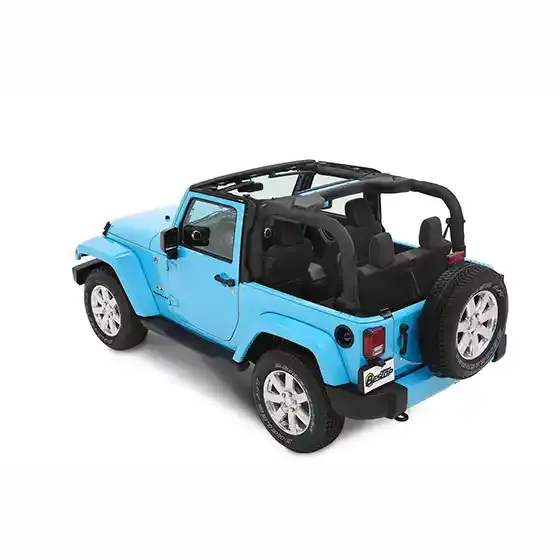
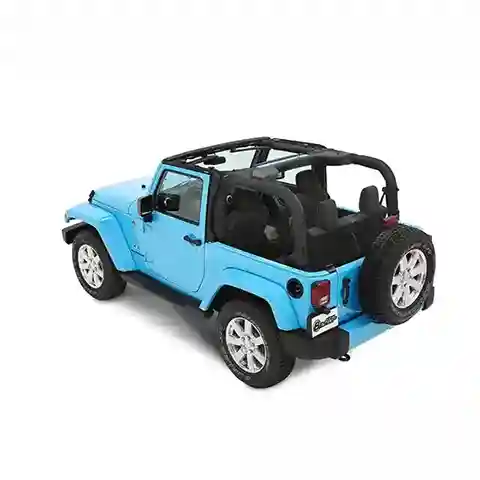
Updated responsive images and added READme file

diff --git a/scoots/rentals.html b/scoots/rentals.html
@@ -32,6 +32,7 @@
     <main>
         <div class="hero-text-container subpage-header">
             <picture class="hero-image">
+                <source srcset="images/rentals-hero-img-small.webp" media="(max-width:1110px)">
                 <img src="images/rentals-hero-img.webp" alt="ATV riding through forest.">
             </picture>
         </div>
@@ -48,19 +49,31 @@
 
             <div class="vehicle-display">
                 <div class="vehicle-card">
-                    <img src="images/honda-metropolitan.webp" alt="Honda Metropolitan motor scooter">
+                    <picture>
+                        <source srcset="images/honda-metropolitan-small.webp" media="(max-width:1110px)">
+                        <img src="images/honda-metropolitan.webp" alt="Honda Metropolitan motor scooter" loading="lazy">
+                    </picture>
+                    
                     <p class="bold">Honda Metropolitan 49cc</p>
                     <p><span class="bold">Max Persons:</span> 1 person</p>
                     <a href="reservations.html" class="button half-width-button">Rent Metropolitan</a>
                 </div>
                 <div class="vehicle-card">
-                    <img src="images/honda-dio.webp" alt="Honda Dio motor scooter">
+                    <picture>
+                        <source srcset="images/honda-dio-small.webp" media="(max-width:1110px)">
+                        <img src="images/honda-dio.webp" alt="Honda Dio motor scooter" loading="lazy">
+                    </picture>
+                    
                     <p class="bold">Honda Dio 110cc</p>
                     <p><span class="bold">Max Persons:</span> 2 person</p>
                     <a href="reservations.html" class="button half-width-button">Rent Dio</a>
                 </div>
                 <div class="vehicle-card">
-                    <img src="images/honda-pcx-light.webp" alt="Honda PCX motor scooter">
+                    <picture>
+                        <source srcset="images/honda-pcx-light-small.webp" media="(max-width:1110px)">
+                        <img src="images/honda-pcx-light.webp" alt="Honda PCX motor scooter" loading="lazy">
+                    </picture>
+        
                     <p class="bold">Honda PCX150 149cc</p>
                     <p><span class="bold">Max Persons:</span> 2 person</p>
                     <a href="reservations.html" class="button half-width-button">Rent PCX150</a>
@@ -76,7 +89,11 @@
             <p><span class="bold">Ideal For:</span> Adventurous individuals and groups wanting to explore off-the-beaten-path trails and rugged terrains.</p>
 
             <div class="vehicle-card">
-                <img src="images/honda-pioneer.webp" alt="Honda Pioneer 1000">
+                <picture>
+                    <source srcset="images/honda-pioneer-small.webp" media="(max-width:1110px)">
+                    <img src="images/honda-pioneer.webp" alt="Honda Pioneer 1000" loading="lazy">
+                </picture>
+                
                 <p class="bold">Honda Pioneer 1000</p>
                 <p><span class="bold">Max Persons:</span> 4 person</p>
                 <a href="reservations.html" class="button half-width-button">Rent Pioneer</a>
@@ -92,14 +109,22 @@
 
             <div class="vehicle-display">
                 <div class="vehicle-card">
-                    <img src="images/4door-jeep.webp" alt="4 Door Jeep">
+                    <picture>
+                        <source srcset="images/4door-jeep-small.webp" media="(max-width:1110px)">
+                        <img src="images/4door-jeep.webp" alt="4 Door Jeep" loading="lazy">
+                    </picture>
+                    
                     <p class="bold">Jeep Wrangler</p>
                     <p>4 Door, Manual, A/C</p>
                     <p><span class="bold">Max Persons:</span> 4 person</p>
                     <a href="reservations.html" class="button half-width-button">Rent 4 Door Jeep</a>
                 </div>
                 <div class="vehicle-card">
-                    <img src="images/2door-jeep.webp" alt="2 Door Jeep Wrangler">
+                    <picture>
+                        <source srcset="images/2door-jeep-small.webp" media="(max-width:1110px)">
+                        <img src="images/2door-jeep.webp" alt="2 Door Jeep Wrangler" loading="lazy">
+                    </picture>
+                    
                     <p class="bold">Jeep Wrangler</p>
                     <p>2 Door, Manual, Open Air</p>
                     <p><span class="bold">Max Persons:</span> 4 person</p>

diff --git a/scoots/index.html b/scoots/index.html
@@ -36,7 +36,8 @@
         </div>
         <div class="hero-text-container">
             <picture class="hero-image">
-                <img src="images/hero-image-large.webp" alt="Woman next to scooter holding helmet.">
+                <source srcset="images/hero-image-small.webp" media="(max-width: 1110px)">
+                <img src="images/hero-image-large.webp" alt="Woman next to scooter holding helmet." loading="lazy">
             </picture>
             <p id="scoots-message">Explore the island the Scoots way.</p>
         </div>
@@ -48,13 +49,15 @@
         </section>
         <div id="playa-location">
             <picture>
-                <img src="images/scoots-location-1-logo.webp" alt="Scoots Playa Del Carmen-Cozumel store location.">
+                <source srcset="images/scoots-location-1-logo-small.webp" media="(max-width:1110px)">
+                <img src="images/scoots-location-1-logo.webp" alt="Scoots Playa Del Carmen-Cozumel store location." loading="lazy">
             </picture>
             <p class="img-caption">Playa del Carmen-Cozumel</p>
         </div>
         <div id="puerta-maya-location">
             <picture>
-                <img src="images/scoots-location-2-update.webp" alt="Scoots Puerta Maya store location.">
+                <source srcset="images/scoots-location-2-update-small.webp" media="(max-width: 1110px)">
+                <img src="images/scoots-location-2-update.webp" alt="Scoots Puerta Maya store location." loading="lazy">
             </picture>
             <p class="img-caption">Terminal Puerta Maya</p>
         </div>
@@ -66,19 +69,22 @@
         <div id="home-rental-images">
             <div>
                 <picture>
-                    <img src="images/honda-metropolitan.webp" alt="Honda Metropolitan Scooter">
+                    <source srcset="images/honda-metropolitan-small.webp" media="(max-width:1110px)">
+                    <img src="images/honda-metropolitan.webp" alt="Honda Metropolitan Scooter" loading="lazy">
                 </picture>
                 <p class="img-caption">Honda Motor Scooters</p>
             </div>
             <div>
                 <picture>
-                    <img src="images/honda-pioneer.webp" alt="Honda Pioneer ATV">
+                    <source srcset="images/honda-pioneer-small.webp" media="(max-width:1110px)">
+                    <img src="images/honda-pioneer.webp" alt="Honda Pioneer ATV" loading="lazy">
                 </picture>
                 <p class="img-caption">Honda Side By Sides</p>
             </div>
             <div>
                 <picture>
-                    <img src="images/4door-jeep.webp" alt="4 Door Jeep Wrangler">
+                    <source srcset="images/4door-jeep-small.webp" media="(max-width:1110px)">
+                    <img src="images/4door-jeep.webp" alt="4 Door Jeep Wrangler" loading="lazy">
                 </picture>
                 <p class="img-caption">Jeep Wranglers</p>
             </div>

diff --git a/scoots/reservations.html b/scoots/reservations.html
@@ -32,7 +32,8 @@
     <main>
         <div class="hero-text-container subpage-header">
             <picture class="hero-image">
-                <img src="images/reservation.webp" alt="Men in jeep by beach.">
+                <source srcset="images/reservation-small.webp" media="(max-width:1110px)">
+                <img src="images/reservation.webp" alt="Men in jeep by beach." loading="lazy">
             </picture>
         </div>
         <h1 class="grid-ten">Reservations</h1>

diff --git a/scoots/styles/mobile.css b/scoots/styles/mobile.css
@@ -112,5 +112,19 @@
 
     /*****Contact Us*****/
 
+    /****Buttons*******/
+    .half-width-button {
+        width: 50%;
+    }
+    .large-button {
+        width: 50%;
+    }
+    
+    .medium-button {
+        width: 50%;
+    }
 
+    #contact-form input[type="submit"] {
+        width: 60%!important;
+    }
 }

diff --git a/scoots/styles/medium.css b/scoots/styles/medium.css
@@ -48,4 +48,16 @@
     #contact-form input {
         width: 80%;
     }
+
+    /*****Buttons****/
+    .half-width-button {
+        width: 50%;
+    }
+    .large-button {
+        width: 30%;
+    }
+    
+    .medium-button {
+        width: 30%;
+    }
 }

diff --git a/scoots/README.md b/scoots/README.md
@@ -1,0 +1,15 @@
+Randi Umphrey WDD230 Final Project:
+
+The purpose of this project was to demonstrate understading of the course materials by creating a ficticious website with no assistance.
+
+Attributions:
+
+Honda dio image: Honda Dio 110 BS6 – Hhttps://honda.com.np/motorcycle/dio-bs6/onda Nepal
+
+Honda metropolitan, pcx, pioneer: https://powersports.honda.com/
+
+2 door jeep: 5685235-TrektopNXPlus-2dr-Ds-Open_0.jpg (2000×1333) (quadratec.com)
+
+4 door jeep: JEEP WRANGLER 2012 OWNER'S MANUAL Pdf Download | ManualsLib
+
+Meta Image: free-photo-of-motor-scooter-parked-near-building-wall.jpeg (1260×709) (pexels.com)
